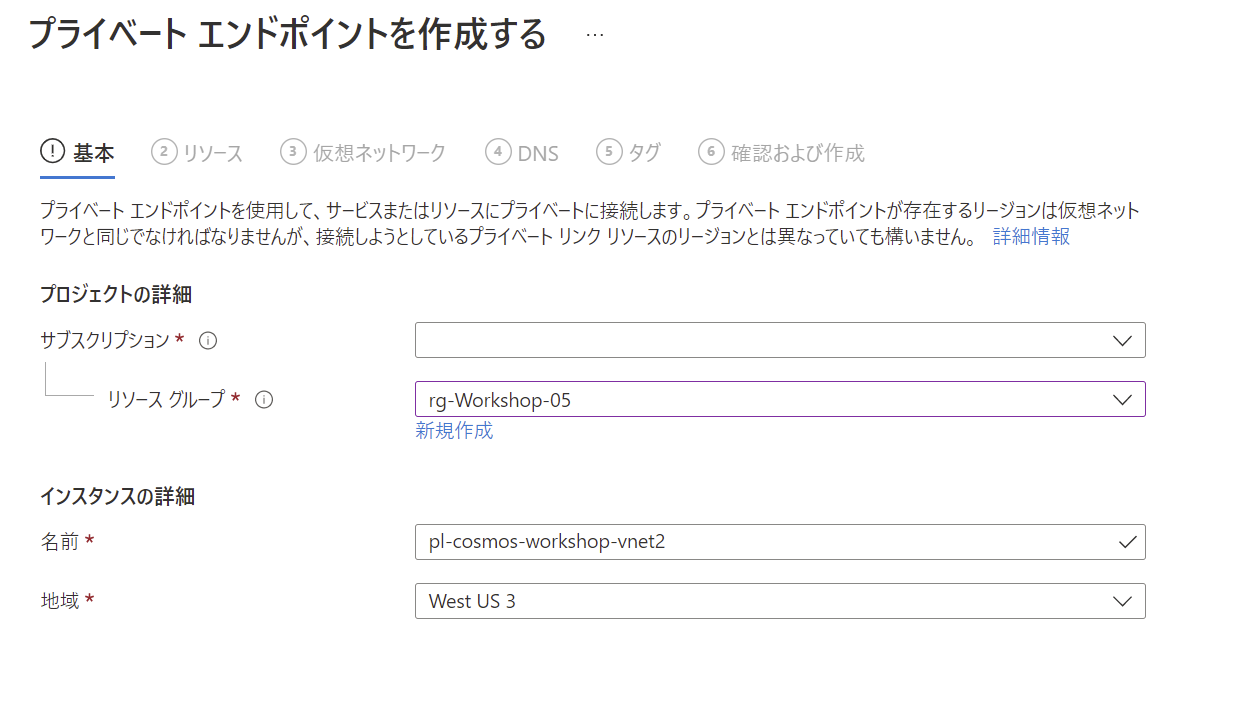
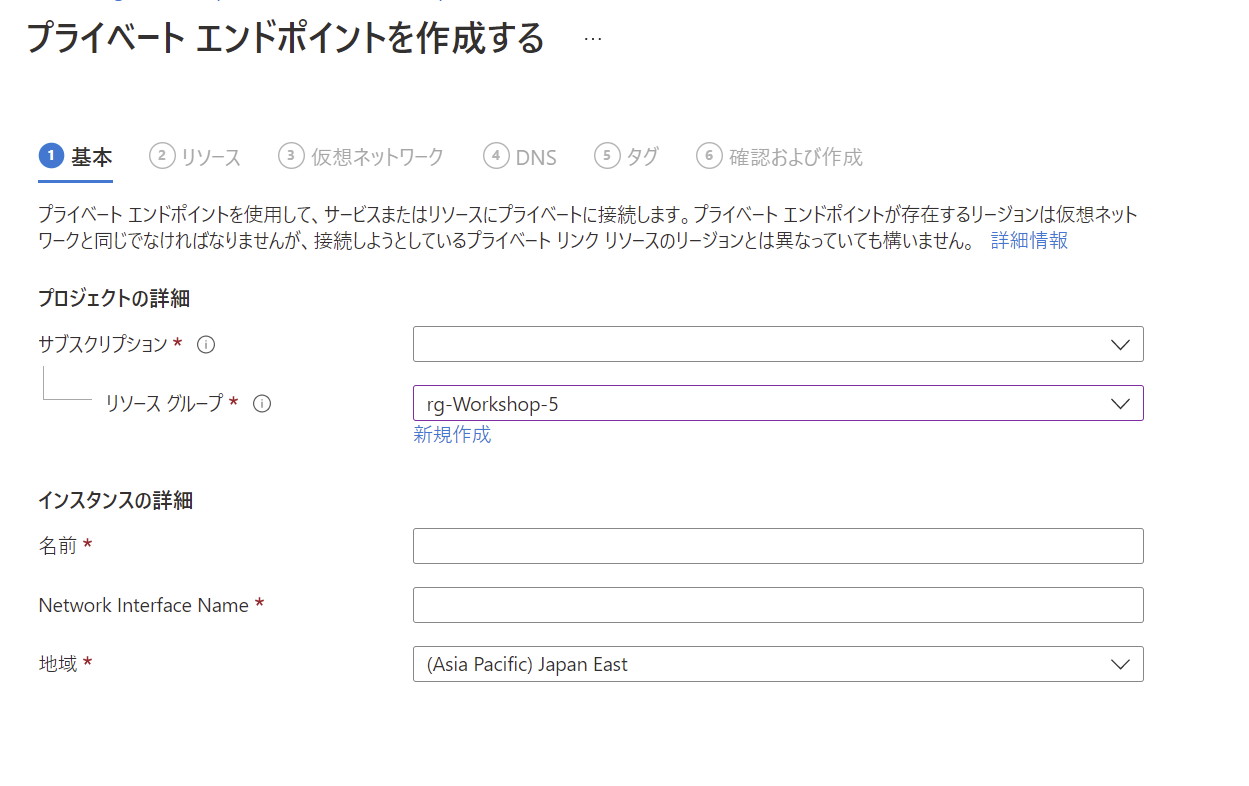
update

diff --git a/Before the HOL.md b/Before the HOL.md
@@ -123,8 +123,10 @@ June 2022
   - Azure ポータルから Cloud Shell を起動しサービス プリンシパルを作成
 
     ```
-    az ad sp create-for-rbac --name "<service principal name>" --role contributor --sdk-auth
+    az ad sp create-for-rbac --name "<service principal name>" --role contributor --scopes /subscriptions/<subscription id> --sdk-auth
     ```
+
+    ※ <subscription id> には作成先のサブスクリプション ID を指定
 
     ※ サブスクリプションに対する共同作成者の権限を付与
 

diff --git a/HOL-step-by-step-Protect-and-Scale-Apps.md b/HOL-step-by-step-Protect-and-Scale-Apps.md
@@ -817,7 +817,9 @@ June 2022
 
   - **名前**: 任意（pl-cosmos-workshop-xxx など）
 
-  - **地域**: 仮想ネットワークが展開されている地域を選択
+  - **Network Interface Name**: 任意（既定のままで OK）
+
+  - **地域**: 新しく作成した仮想ネットワークの地域を選択
 
     <img src="images/replicate-db-5.png" />
 
